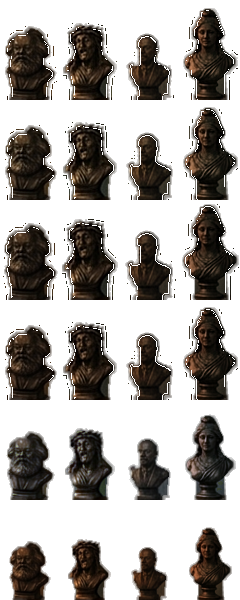
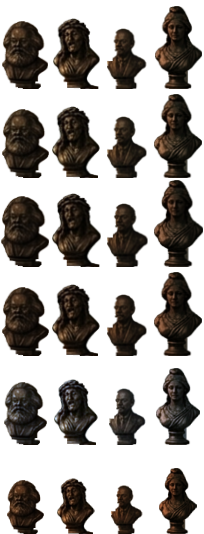
Korong! : bustes redétourés avec Detour (U²-Net + IS-Net), croisés avec GrabCut, deux juges sur trois ; socles rétablis
Claude-Session: https://claude.ai/code/session_01WwZKtMfmPs2vbvN9ntf3uU

diff --git a/fr.html b/fr.html
@@ -1290,15 +1290,15 @@ const ROOMPIC=new Image();ROOMPIC.decoding='async';ROOMPIC.onload=()=>{bgKey=-1;
 /* the painted rooms of Korong!, one drawn at random per match (never the same twice in a row).
    Each carries its own live zones, measured on the picture, in canvas units (512 x 343): tv = the screen,
    win = the window pane; the two portrait frames and the slate board keep the reference geometry. */
-const ROOMS=[{s:'room-puck-1.webp',tv:[328.1,60.7,62.4,57.8],win:[119.1,16.2,52.7,62.3],b:[395.95,55.01,1.03]},
- {s:'room-puck-2.webp',tv:[327.3,69.6,62.8,57.8],win:[126.4,10.5,45.4,73.2],b:[396.15,62.29,1.045]},
- {s:'room-puck-3.webp',tv:[327.7,69.6,62.4,58.2],win:[126.4,14.2,43.3,53.0],b:[395.95,63.1,1.076]},
- {s:'room-puck-4.webp',tv:[328.1,71.2,62.8,56.2],win:[119.1,16.2,52.7,62.3],b:[396.15,64.72,1.045]},
- {s:'room-puck-5.webp',tv:[328.9,60.3,61.6,57.8],win:[123.5,12.1,43.7,66.3],b:[394.73,53.8,0.955]},
- {s:'room-puck-6.webp',tv:[328.5,59.5,62.0,59.1],win:[128.0,13.7,42.0,65.5],b:[394.33,53.39,0.818]}];
+const ROOMS=[{s:'room-puck-1.webp',tv:[328.1,60.7,62.4,57.8],win:[119.1,16.2,52.7,62.3],b:[395.95,55.01,0.944]},
+ {s:'room-puck-2.webp',tv:[327.3,69.6,62.8,57.8],win:[126.4,10.5,45.4,73.2],b:[396.15,62.29,0.958]},
+ {s:'room-puck-3.webp',tv:[327.7,69.6,62.4,58.2],win:[126.4,14.2,43.3,53.0],b:[395.95,63.1,0.986]},
+ {s:'room-puck-4.webp',tv:[328.1,71.2,62.8,56.2],win:[119.1,16.2,52.7,62.3],b:[396.15,64.72,0.958]},
+ {s:'room-puck-5.webp',tv:[328.9,60.3,61.6,57.8],win:[123.5,12.1,43.7,66.3],b:[394.73,53.8,0.875]},
+ {s:'room-puck-6.webp',tv:[328.5,59.5,62.0,59.1],win:[128.0,13.7,42.0,65.5],b:[394.33,53.39,0.75]}];
 /* the bust on the television: drawn at random per match among the figures below, from busts-puck.png
    (each bust tinted to each room's light); b = [centre x, base y, scale] of the bust in canvas units */
-const BUSTS=["marx", "christ", "lenin", "marianne"],BUSTCELL={"1.marx":[3,26,54,74],"1.christ":[63,23,54,77],"1.lenin":[125,31,49,69],"1.marianne":[182,6,56,94],"2.marx":[3,125,54,75],"2.christ":[63,122,54,78],"2.lenin":[125,130,50,70],"2.marianne":[182,105,56,95],"3.marx":[2,223,56,77],"3.christ":[62,219,56,81],"3.lenin":[124,228,52,72],"3.marianne":[181,202,58,98],"4.marx":[3,325,54,75],"4.christ":[63,322,54,78],"4.lenin":[125,330,50,70],"4.marianne":[182,305,56,95],"5.marx":[5,431,50,69],"5.christ":[65,428,50,72],"5.lenin":[127,436,46,64],"5.marianne":[184,413,52,87],"6.marx":[8,541,43,59],"6.christ":[68,539,43,61],"6.lenin":[130,545,39,55],"6.marianne":[188,526,44,74]};
+const BUSTS=["marx", "christ", "lenin", "marianne"],BUSTCELL={"1.marx":[2,21,46,68],"1.christ":[53,18,47,71],"1.lenin":[107,28,40,61],"1.marianne":[155,6,47,83],"2.marx":[2,109,47,69],"2.christ":[52,106,48,72],"2.lenin":[107,116,40,62],"2.marianne":[154,94,48,84],"3.marx":[1,196,48,71],"3.christ":[52,193,49,74],"3.lenin":[107,203,41,64],"3.marianne":[154,180,49,87],"4.marx":[2,287,47,69],"4.christ":[52,284,48,72],"4.lenin":[107,294,40,62],"4.marianne":[154,272,48,84],"5.marx":[4,382,43,63],"5.christ":[54,379,44,66],"5.lenin":[109,388,37,57],"5.marianne":[156,368,44,77],"6.marx":[7,480,37,54],"6.christ":[57,478,38,56],"6.lenin":[111,485,32,49],"6.marianne":[159,468,38,66]};
 const BUSTPIC=new Image();BUSTPIC.decoding='async';BUSTPIC.onload=()=>{bgKey=-1;};
 let ROOM=null,BUST=null;
 function pickRoom(){let last=-1;try{last=+(localStorage.getItem('ik.room')||-1);}catch(e){}

diff --git a/index.html b/index.html
@@ -1289,15 +1289,15 @@ const ROOMPIC=new Image();ROOMPIC.decoding='async';ROOMPIC.onload=()=>{bgKey=-1;
 /* the painted rooms of Korong!, one drawn at random per match (never the same twice in a row).
    Each carries its own live zones, measured on the picture, in canvas units (512 x 343): tv = the screen,
    win = the window pane; the two portrait frames and the slate board keep the reference geometry. */
-const ROOMS=[{s:'room-puck-1.webp',tv:[328.1,60.7,62.4,57.8],win:[119.1,16.2,52.7,62.3],b:[395.95,55.01,1.03]},
- {s:'room-puck-2.webp',tv:[327.3,69.6,62.8,57.8],win:[126.4,10.5,45.4,73.2],b:[396.15,62.29,1.045]},
- {s:'room-puck-3.webp',tv:[327.7,69.6,62.4,58.2],win:[126.4,14.2,43.3,53.0],b:[395.95,63.1,1.076]},
- {s:'room-puck-4.webp',tv:[328.1,71.2,62.8,56.2],win:[119.1,16.2,52.7,62.3],b:[396.15,64.72,1.045]},
- {s:'room-puck-5.webp',tv:[328.9,60.3,61.6,57.8],win:[123.5,12.1,43.7,66.3],b:[394.73,53.8,0.955]},
- {s:'room-puck-6.webp',tv:[328.5,59.5,62.0,59.1],win:[128.0,13.7,42.0,65.5],b:[394.33,53.39,0.818]}];
+const ROOMS=[{s:'room-puck-1.webp',tv:[328.1,60.7,62.4,57.8],win:[119.1,16.2,52.7,62.3],b:[395.95,55.01,0.944]},
+ {s:'room-puck-2.webp',tv:[327.3,69.6,62.8,57.8],win:[126.4,10.5,45.4,73.2],b:[396.15,62.29,0.958]},
+ {s:'room-puck-3.webp',tv:[327.7,69.6,62.4,58.2],win:[126.4,14.2,43.3,53.0],b:[395.95,63.1,0.986]},
+ {s:'room-puck-4.webp',tv:[328.1,71.2,62.8,56.2],win:[119.1,16.2,52.7,62.3],b:[396.15,64.72,0.958]},
+ {s:'room-puck-5.webp',tv:[328.9,60.3,61.6,57.8],win:[123.5,12.1,43.7,66.3],b:[394.73,53.8,0.875]},
+ {s:'room-puck-6.webp',tv:[328.5,59.5,62.0,59.1],win:[128.0,13.7,42.0,65.5],b:[394.33,53.39,0.75]}];
 /* the bust on the television: drawn at random per match among the figures below, from busts-puck.png
    (each bust tinted to each room's light); b = [centre x, base y, scale] of the bust in canvas units */
-const BUSTS=["marx", "christ", "lenin", "marianne"],BUSTCELL={"1.marx":[3,26,54,74],"1.christ":[63,23,54,77],"1.lenin":[125,31,49,69],"1.marianne":[182,6,56,94],"2.marx":[3,125,54,75],"2.christ":[63,122,54,78],"2.lenin":[125,130,50,70],"2.marianne":[182,105,56,95],"3.marx":[2,223,56,77],"3.christ":[62,219,56,81],"3.lenin":[124,228,52,72],"3.marianne":[181,202,58,98],"4.marx":[3,325,54,75],"4.christ":[63,322,54,78],"4.lenin":[125,330,50,70],"4.marianne":[182,305,56,95],"5.marx":[5,431,50,69],"5.christ":[65,428,50,72],"5.lenin":[127,436,46,64],"5.marianne":[184,413,52,87],"6.marx":[8,541,43,59],"6.christ":[68,539,43,61],"6.lenin":[130,545,39,55],"6.marianne":[188,526,44,74]};
+const BUSTS=["marx", "christ", "lenin", "marianne"],BUSTCELL={"1.marx":[2,21,46,68],"1.christ":[53,18,47,71],"1.lenin":[107,28,40,61],"1.marianne":[155,6,47,83],"2.marx":[2,109,47,69],"2.christ":[52,106,48,72],"2.lenin":[107,116,40,62],"2.marianne":[154,94,48,84],"3.marx":[1,196,48,71],"3.christ":[52,193,49,74],"3.lenin":[107,203,41,64],"3.marianne":[154,180,49,87],"4.marx":[2,287,47,69],"4.christ":[52,284,48,72],"4.lenin":[107,294,40,62],"4.marianne":[154,272,48,84],"5.marx":[4,382,43,63],"5.christ":[54,379,44,66],"5.lenin":[109,388,37,57],"5.marianne":[156,368,44,77],"6.marx":[7,480,37,54],"6.christ":[57,478,38,56],"6.lenin":[111,485,32,49],"6.marianne":[159,468,38,66]};
 const BUSTPIC=new Image();BUSTPIC.decoding='async';BUSTPIC.onload=()=>{bgKey=-1;};
 let ROOM=null,BUST=null;
 function pickRoom(){let last=-1;try{last=+(localStorage.getItem('ik.room')||-1);}catch(e){}
